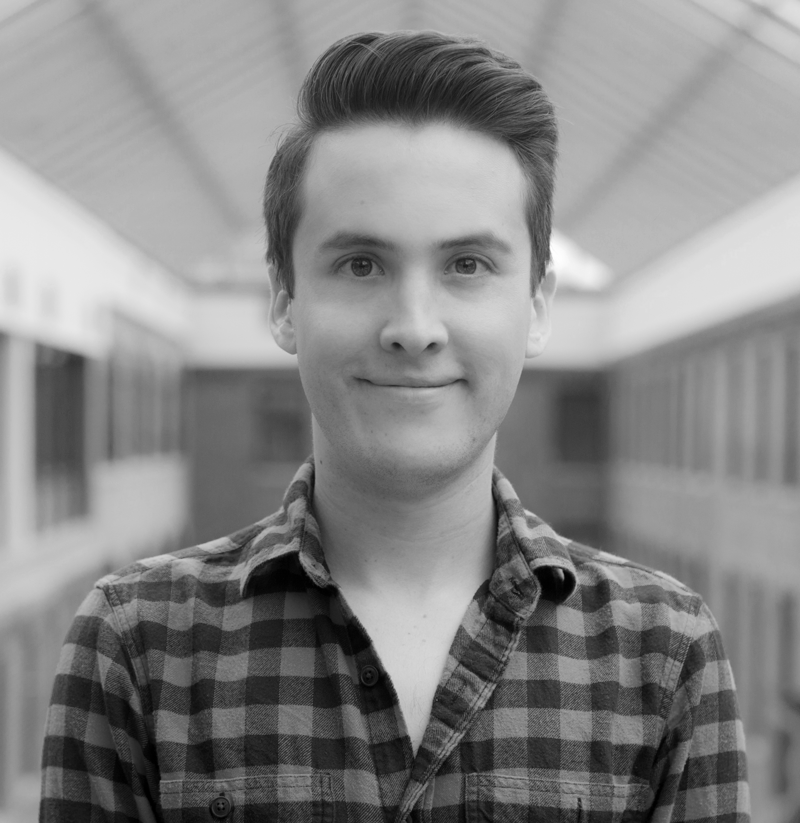
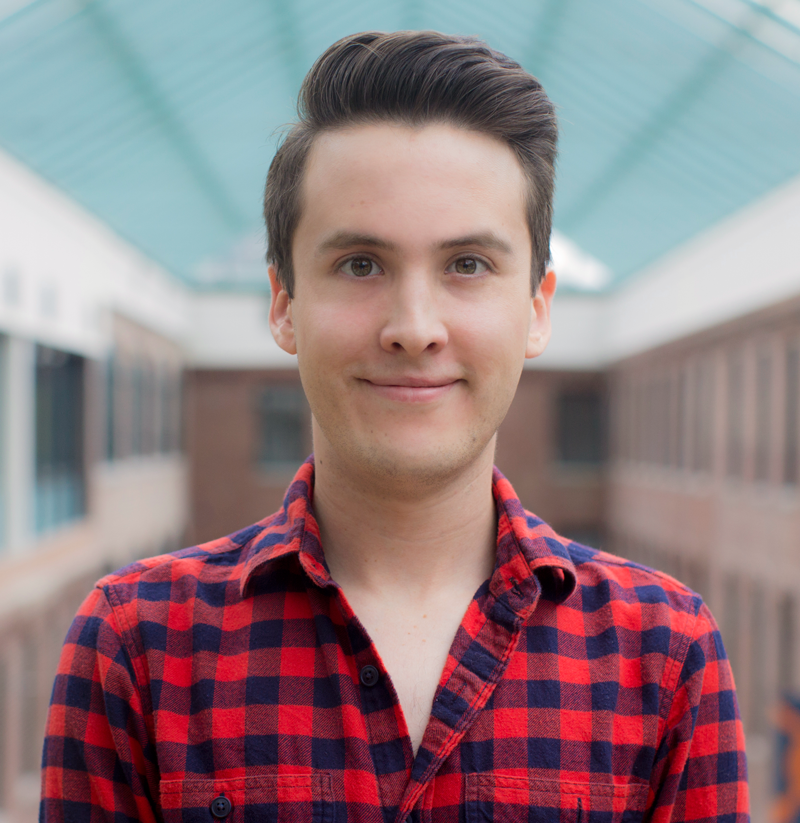
Update team photos

diff --git a/src/pages/Team/TeamMembers/teamMembersConfig.js b/src/pages/Team/TeamMembers/teamMembersConfig.js
@@ -1,13 +1,13 @@
-import DelImage from './TeamMemberImages/del.png';
+import DelImage from './TeamMemberImages/del.jpg';
 import LeonImage from './TeamMemberImages/leon.jpg';
-import HelenImage from './TeamMemberImages/helen.png';
+import HelenImage from './TeamMemberImages/helen.jpg';
 import MuigaiImage from './TeamMemberImages/muigai.png';
 import AlecImage from './TeamMemberImages/alec.png';
-import ChrisImage from './TeamMemberImages/chris.png';
-import JoshImage from './TeamMemberImages/josh.png';
-import PamelaImage from './TeamMemberImages/pamela.png';
+import ChrisImage from './TeamMemberImages/chris.jpg';
+import JoshImage from './TeamMemberImages/josh.jpg';
+import PamelaImage from './TeamMemberImages/pamela.jpg';
 import SusanneImage from './TeamMemberImages/susanne.png';
-import CaImage from './TeamMemberImages/ca.png';
+import CaImage from './TeamMemberImages/ca.jpg';
 import FredImage from './TeamMemberImages/fred.png';
 
 export default {
@@ -103,19 +103,6 @@ export default {
       coverage universe to ensure that SVB is providing the best possible insights, guidance,
       products and services to the partnership and their portfolio companies.`
   },
-  SUSANNE_BECK: {
-    name: 'Susanne Beck',
-    image: SusanneImage,
-    title: 'Board',
-    bio: `Susanne is a Management Consultant specializing in organizational strategy,
-      organizational development, and leadership in the non-profit sector. Prior to consulting,
-      Ms. Beck held a number of executive positions including: Executive Director of NCGS, a
-      national coalition of educators committed to girls' education; Founding Partner and Managing
-      Director of the Trefler Foundation; and Senior Administrator and Director at Harvard's
-      Kennedy School of Government. She holds a BA from Princeton University (English, High Honors)
-      and a graduate degree from Harvard University. Ms. Beck previously worked in the fields of
-      investment banking, management consulting, and marketing.`
-  },
   CA_WEBB: {
     name: 'C.A. Webb',
     image: CaImage,
@@ -133,11 +120,11 @@ export default {
   image: FredImage,
   title: 'Board',
   bio: `Fred builds and leads teams that craft web platforms, products, and communities.
-  From software development and architecture, to product marketing strategy, to business leadership and
-  operations, he thrives at the intersection of technology, strategy, and design. He's worked with
-  organizations of all sizes on two continents, from The Coca-Cola Company and Staples to Sony and Microsoft,
-  to develop and drive business models at scale. Now, he's applying his technical experience as both developer
-  and entrepreneur to transforming the real estate industry with Placester, advising early-stage startups,
-  and speaking at digital marketing and technology events around the world.`
+    From software development and architecture, to product marketing strategy, to business leadership and
+    operations, he thrives at the intersection of technology, strategy, and design. He's worked with
+    organizations of all sizes on two continents, from The Coca-Cola Company and Staples to Sony and Microsoft,
+    to develop and drive business models at scale. Now, he's applying his technical experience as both developer
+    and entrepreneur to transforming the real estate industry with Placester, advising early-stage startups,
+    and speaking at digital marketing and technology events around the world.`
   },
 }
